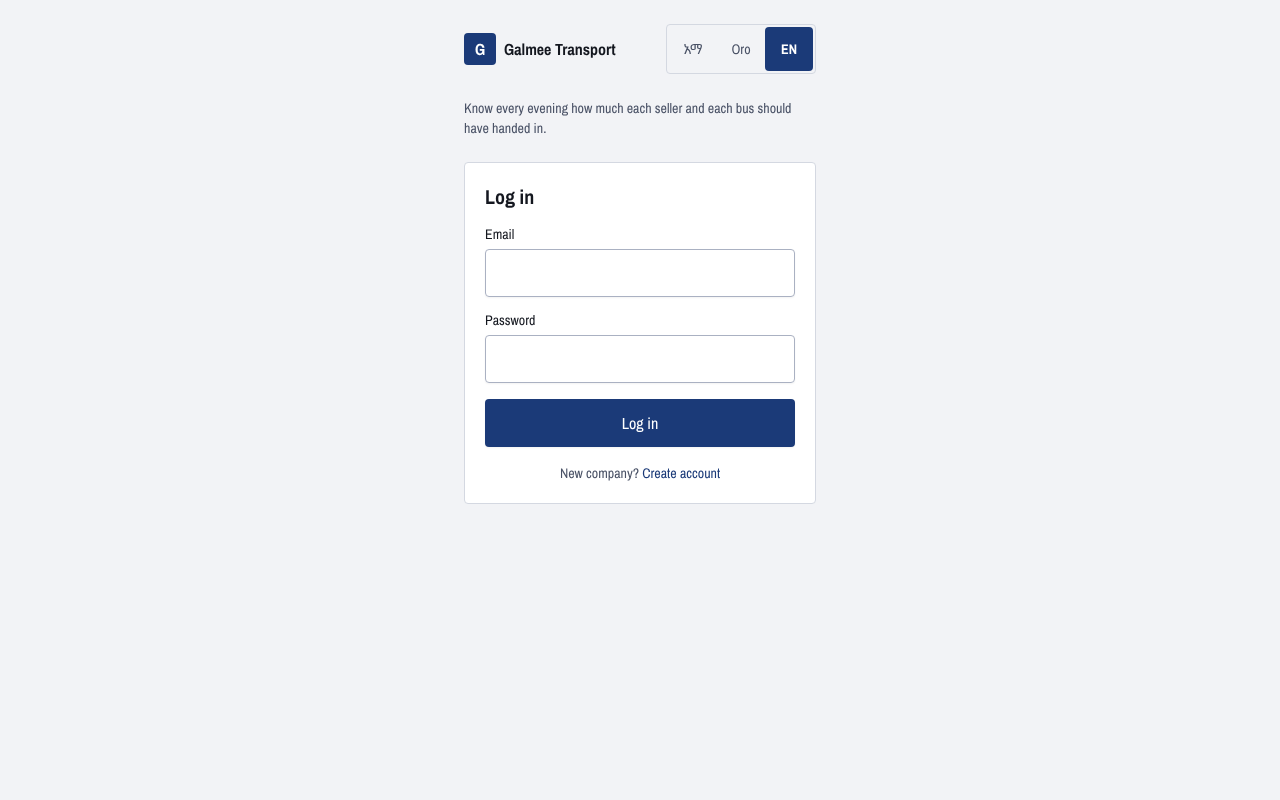
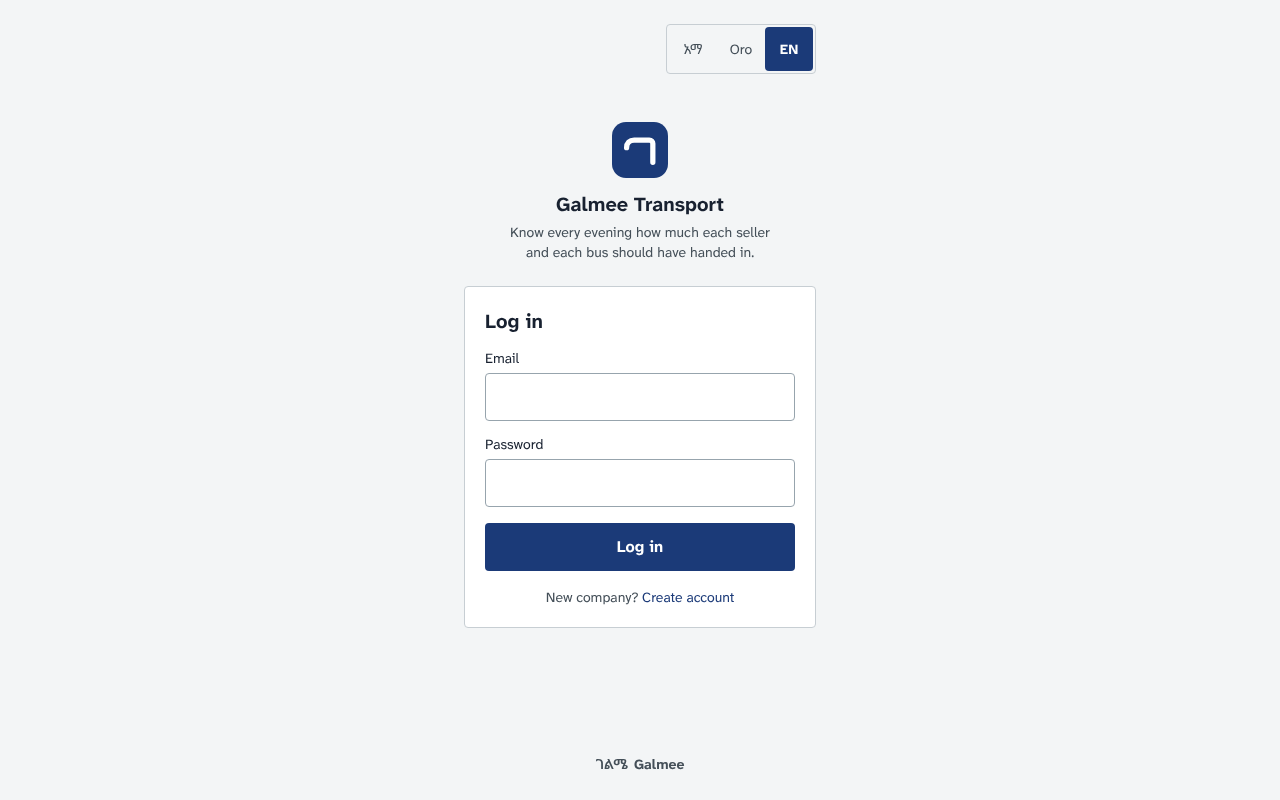
Left-align reverse buttons on the cash screen; refresh login, board and cash screenshots

diff --git a/src/app/(app)/cash/page.tsx b/src/app/(app)/cash/page.tsx
@@ -94,7 +94,7 @@ export default async function CashPage({ searchParams }: { searchParams: Promise
                     {h.reversed ? (
                       <span>{t("reversed")}</span>
                     ) : (
-                      <ActionForm action={reverseHandoverAction} submitLabel={t("reverse")} variant="outline" className="grid gap-1">
+                      <ActionForm action={reverseHandoverAction} submitLabel={t("reverse")} variant="outline" className="grid justify-items-start gap-1">
                         <input type="hidden" name="handover" value={h.id} />
                         <input type="hidden" name="day" value={day} />
                       </ActionForm>

diff --git a/ROADMAP.md b/ROADMAP.md
@@ -6,7 +6,7 @@
 - [x] Wire departures, cash and parcels screens into the shell
 - [x] Reports screen on `tr_route_report`
 - [ ] Ticket SMS: shared sender consumes the `notifications` queue
-- [ ] Galmee design system applied (shared components, tokens, fonts, logo)
+- [x] Galmee design system applied (shared components, tokens, fonts, logo)
 
 ## M-after: Tier 2 and 3
 
